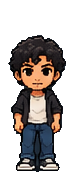
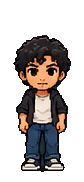
feat: parado de frente com os 4 quadros novos, alinhados

Changed region(s): [[0.0952, 0.1923, 0.8571, 0.9615]]

diff --git a/src/main.js b/src/main.js
@@ -400,6 +400,7 @@ const estacoes = zonas.map((z, i) => {
 // quadros em public/avatar/<animação>-<direção>-<n>.png (84x182, pés na linha y=168)
 const FRAMES = { parado: 4, andar: 5, correr: 5, pular: 5 };
 const DIRECOES = ['direita', 'esquerda', 'norte', 'sul']; // norte = de costas (fundo da tela), sul = de frente
+const CICLO_PARADO = [0, 1, 2, 3, 2, 1]; // parado de frente: ida e volta
 const FRAME_W = 84, FRAME_H = 182, FRAME_PES_Y = 168;
 const carregador = new THREE.TextureLoader();
 const quadros = {};
@@ -607,12 +608,12 @@ renderer.setAnimationLoop(() => {
   } else if (vel > 0.08) {
     quadro = quadros.andar[olhando][Math.floor(passo) % FRAMES.andar];
   } else {
-    // os quadros de "parado" do desenho não estão alinhados entre si (o corpo pula de lugar), então fica um quadro só
-    // e a respiração vem de um leve esticar do sprite
-    quadro = quadros.parado[olhando][0];
+    // de frente há 4 quadros bem alinhados (ida e volta); nas outras direções os quadros do desenho não se alinham
+    // (o corpo "pula"), então fica um quadro só e a respiração vem de um leve esticar do sprite
+    quadro = olhando === 'sul' ? quadros.parado.sul[CICLO_PARADO[Math.floor(tempo * 4) % CICLO_PARADO.length]] : quadros.parado[olhando][0];
   }
   boneco.material = quadro;
-  const respira = noChao && vel <= 0.08 ? Math.sin(tempo * 2.4) * 0.012 : 0;
+  const respira = noChao && vel <= 0.08 && olhando !== 'sul' ? Math.sin(tempo * 2.4) * 0.012 : 0;
   boneco.scale.set(LARGURA_BONECO * (1 - respira * 0.5), ALTURA_BONECO * (1 + respira), 1);
   boneco.position.y = R + alturaPulo;
   const sobe = Math.min(alturaPulo, 1.5);
